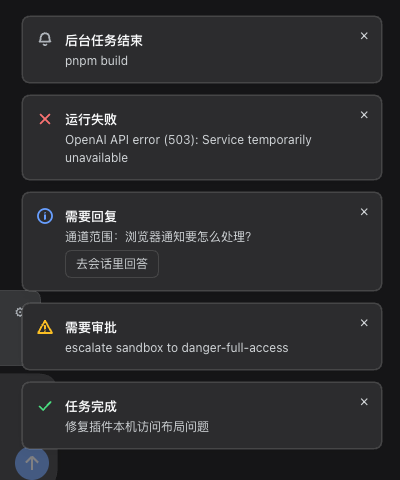
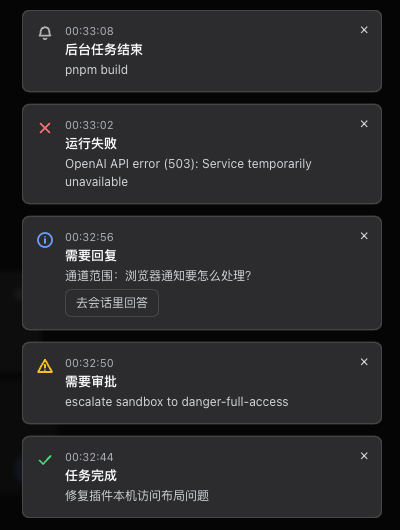
Stamp every card with the moment it arrived
Parallel tasks finish seconds apart, and a column of similar cards leaves
the user unable to tell which one was this. The host has always sent
`record.at` in every record; the client simply never showed it.

The clock leads the metadata row the session name already occupies, to
the second, so it costs the card no height: five cards still fit the same
window (518px / 822px measured unchanged). Fixed-width digits keep the
clocks in one column. A record that is not from today falls back to
`02-14 09:05`, and the full local timestamp always sits in the tooltip.

It leads rather than trails that row because the `+N` count is pinned to
the corner: right-aligned, the chip landed on the top card's clock and
covered its seconds. Found on the live page, not in the tests.

The self-test group is now spread over the previous half-minute, so a
burst shows eight distinct moments instead of eight identical ones.

diff --git a/src/client.js b/src/client.js
@@ -94,7 +94,8 @@ export const TOAST_CSS = `.dsh-notify-frame{position:fixed;z-index:1100}
 .dsh-notify-toast[data-tone=info] .dsh-notify-toast-icon{color:var(--dsw-alias-state-business-primary,#2563eb)}
 .dsh-notify-toast-body{display:grid;gap:2px;min-width:0;flex:1 1 auto}
 .dsh-notify-toast-head{align-items:center;display:flex;gap:6px;min-width:0}
-.dsh-notify-toast-source{color:var(--dsw-alias-label-tertiary,#7a8494);font-size:11px;line-height:1.4;min-width:0;overflow:hidden;text-overflow:ellipsis;white-space:nowrap}
+.dsh-notify-toast-source{color:var(--dsw-alias-label-tertiary,#7a8494);flex:1 1 auto;font-size:11px;line-height:1.4;min-width:0;overflow:hidden;text-overflow:ellipsis;white-space:nowrap}
+.dsh-notify-toast-time{color:var(--dsw-alias-label-tertiary,#7a8494);flex:none;font-size:11px;font-variant-numeric:tabular-nums;line-height:1.4;white-space:nowrap}
 .dsh-notify-toast-title{font-size:13px;font-weight:650;line-height:1.45}
 .dsh-notify-toast-text{color:var(--dsw-alias-label-secondary);font-size:12px;line-height:1.5;margin:0;overflow-wrap:anywhere}
 .dsh-notify-toast-answers{align-items:center;display:flex;flex-wrap:wrap;gap:6px;margin-top:2px}
@@ -148,12 +149,16 @@ export const SELF_TEST_BATCH = Object.freeze([
  * `count` exists so the settings buttons can fire a window-sized group and an overflowing one: the
  * difference between five cards lying flat and eight cards behind a `+3` count is the whole point of
  * looking at a group at all. Cards are distinct records — reusing one would merge into a single card.
+ *
+ * The group is spread over the last few seconds rather than all stamped at the same millisecond, so a
+ * self-test shows what a real burst looks like: eight cards, eight readable times, newest on top.
  */
+export const SELF_TEST_STEP_MS = 6_000;
 export function createLocalSelfTestBatch({ count = SELF_TEST_BATCH.length, now = Date.now(), randomUUID = () => globalThis.crypto?.randomUUID?.() || Math.random().toString(36).slice(2) } = {}) {
   const wanted = Math.max(1, Math.min(SELF_TEST_BATCH.length, Math.trunc(Number(count)) || SELF_TEST_BATCH.length));
   return SELF_TEST_BATCH.slice(0, wanted).map((entry, index) => {
     const id = `self-test:${randomUUID()}-${index}`;
-    return { ...entry, eventId: id, mergeKey: id, at: now + index, phase: 'settled', localOnly: true };
+    return { ...entry, eventId: id, mergeKey: id, at: now - (wanted - 1 - index) * SELF_TEST_STEP_MS, phase: 'settled', localOnly: true };
   });
 }
 export function publishLocalSelfTest(record, dispatch = (event) => globalThis.dispatchEvent(event)) {
@@ -420,6 +425,27 @@ export function queueCards(cards = [], max = TOAST_QUEUE_MAX) {
   return [...pending, ...finished].slice(0, Math.max(1, max));
 }
 /**
+ * When a card happened, in the smallest form that still answers "which one was this".
+ *
+ * A page only holds what arrived while it was open, so the usual case is today and the clock alone
+ * says it. Seconds are kept because parallel tasks finish seconds apart — that is exactly when the
+ * user is trying to tell two cards apart — and the full date is always in the tooltip for the rare
+ * card that arrives after the tab was asleep across midnight. Relative wording ("3 分钟前") is
+ * deliberately not used: it would need a timer redrawing the stack to stay true, and reconstructing
+ * *when* something happened is the whole point of the field.
+ */
+export function toastTime(at, now = Date.now()) {
+  const stamp = Number(at);
+  if (!Number.isFinite(stamp) || stamp <= 0) return null;
+  const date = new Date(stamp);
+  if (Number.isNaN(date.getTime())) return null;
+  const pad = (value) => String(value).padStart(2, '0');
+  const clock = `${pad(date.getHours())}:${pad(date.getMinutes())}:${pad(date.getSeconds())}`;
+  const today = new Date(Number.isFinite(Number(now)) ? Number(now) : Date.now());
+  const sameDay = date.getFullYear() === today.getFullYear() && date.getMonth() === today.getMonth() && date.getDate() === today.getDate();
+  return { label: sameDay ? clock : `${pad(date.getMonth() + 1)}-${pad(date.getDate())} ${clock.slice(0, 5)}`, title: `${date.getFullYear()}-${pad(date.getMonth() + 1)}-${pad(date.getDate())} ${clock}`, iso: date.toISOString() };
+}
+/**
  * Where each card sits. Every card keeps its own slot in one flat column — a new one takes the top and
  * pushes the rest down by exactly its own measured height — and the window below decides how much of
  * that column is on screen.
@@ -632,6 +658,7 @@ function ToastOverlay({ sessions, pendingInteractions } = {}) {
     const record = card.record; const status = card.status;
     const tone = status === 'error' ? 'error' : status === 'success' ? 'success' : toastTone(record.kind);
     const source = sessionLabel(sessions, record.sessionId);
+    const stamp = toastTime(record.at);
     // The slot is absolutely positioned and moved by its transform; that is what lets the cards below
     // a new one slide down instead of jumping.
     const slotStyle = { transform: `translateY(${plan.offsetY}px)` };
@@ -641,6 +668,11 @@ function ToastOverlay({ sessions, pendingInteractions } = {}) {
         toastIcon(tone, status),
         React.createElement('div', { className: 'dsh-notify-toast-body' },
           React.createElement('span', { className: 'dsh-notify-toast-head' },
+            // The time leads the metadata row the session name already occupies: no new line, no third
+            // column, and fixed-width digits line the clocks up down the stack. It must not take the
+            // right end of that row — the `+N` chip and the close button live there, and the chip is
+            // pinned to the corner rather than to a card, so anything right-aligned would slide under it.
+            stamp ? React.createElement('time', { className: 'dsh-notify-toast-time', dateTime: stamp.iso, title: stamp.title }, stamp.label) : null,
             source ? React.createElement('span', { className: 'dsh-notify-toast-source', title: record.sessionId }, source) : null),
           React.createElement('strong', { className: 'dsh-notify-toast-title' }, record.title),
           record.body ? React.createElement('p', { className: 'dsh-notify-toast-text' }, record.body) : null,

diff --git a/test/client-ui.test.js b/test/client-ui.test.js
@@ -1,5 +1,5 @@
 import test from 'node:test'; import assert from 'node:assert/strict';
-import { createAttentionIndicator, createSoundPlayer, installClientStyles, navigateNotificationRecord, queueCards, stackWindow, CLIENT_CSS, SETTINGS_CSS, layoutFor, revealTurn, statusTone, resultTone, toastAnchor, toastStackPlan, toastTone, toastIcon, pendingInteractionFor, toastAnswer, answerBatch, sessionLabel } from '../src/client.js';
+import { createAttentionIndicator, createLocalSelfTestBatch, createSoundPlayer, installClientStyles, navigateNotificationRecord, queueCards, SELF_TEST_STEP_MS, stackWindow, CLIENT_CSS, SETTINGS_CSS, layoutFor, revealTurn, statusTone, resultTone, toastAnchor, toastStackPlan, toastTime, toastTone, toastIcon, pendingInteractionFor, toastAnswer, answerBatch, sessionLabel } from '../src/client.js';
 test('narrow layout keeps the coarse-pointer hit target', () => { assert.deepEqual(layoutFor({ width: 375, coarse: true }), { narrow: true, hitTarget: 44 }); });
 test('settings status and self-test result tones drive the colour of one dot and one line', () => {
   assert.equal(statusTone('通知已连接'), 'ok'); assert.equal(statusTone('设置已保存'), 'ok'); assert.equal(statusTone('通知历史已清空'), 'ok');
@@ -209,3 +209,23 @@ test('the page-scoped queue keeps waiting work first and lets go of nothing unti
   assert.equal(capped[0].record.eventId, 'q1', 'the cap never takes the card that waits on the user');
 });
 
+test('each card is stamped with its own clock, and the full date rides in the tooltip', () => {
+  // Constructed and formatted in local time on purpose: the label never depends on the runner's zone.
+  const at = new Date(2026, 1, 14, 9, 5, 3).getTime();
+  assert.deepEqual(toastTime(at, new Date(2026, 1, 14, 23, 59, 0).getTime()),
+    { label: '09:05:03', title: '2026-02-14 09:05:03', iso: new Date(at).toISOString() },
+    'the same day is just the clock, to the second, because parallel tasks finish seconds apart');
+  // A tab that was asleep across midnight still gets a date instead of a lie about "today".
+  assert.equal(toastTime(at, new Date(2026, 1, 15, 0, 1, 0).getTime()).label, '02-14 09:05');
+  assert.equal(toastTime(at, new Date(2027, 1, 14, 9, 5, 3).getTime()).label, '02-14 09:05');
+  // And a record with no usable stamp is simply not stamped, rather than stamped with 1970.
+  for (const missing of [undefined, null, 0, -1, 'nonsense', NaN]) assert.equal(toastTime(missing), null, `${missing} has no time`);
+});
+test('a self-test group is spread over time so eight cards read as eight different moments', () => {
+  const batch = createLocalSelfTestBatch({ count: 8, now: 1_000_000, randomUUID: () => 'r' });
+  assert.equal(batch.length, 8);
+  assert.equal(batch.at(-1).at, 1_000_000, 'the newest card is now');
+  assert.equal(batch[0].at, 1_000_000 - 7 * SELF_TEST_STEP_MS, 'and the oldest is seven steps back');
+  assert.equal(new Set(batch.map((record) => record.at)).size, 8, 'every card keeps its own moment');
+  assert.deepEqual(batch.map((record) => record.eventId), batch.map((record) => record.mergeKey), 'distinct records, so they cannot merge into one card');
+});

diff --git a/test/client-dom.test.js b/test/client-dom.test.js
@@ -398,6 +398,8 @@ async function mountStackSandbox(t, { host = 'live' } = {}) {
     windowHeight: () => document.querySelector('.dsh-notify-frame')?.style.height,
     contentHeight: () => document.querySelector('.dsh-notify-stack-inner')?.style.height,
     badge: () => document.querySelector('.dsh-notify-count')?.textContent ?? null,
+    times: () => nodes().map((node) => node.querySelector('.dsh-notify-toast-time')?.textContent ?? null),
+    headParts: (index = 0) => [...nodes()[index].querySelectorAll('.dsh-notify-toast-head > *')],
     tabTitle: () => title.value,
   };
 }
@@ -604,3 +606,28 @@ test('nothing is dropped: every card keeps its slot, and the window scrolls to i
   assert.deepEqual(sandbox.transforms(), ['translateY(0px)', 'translateY(12px)', 'translateY(24px)', 'translateY(36px)', 'translateY(48px)', 'translateY(60px)']);
 });
 
+
+test('every card says when it happened, on the line the session name already used', async (t) => {
+  const sandbox = await mountStackSandbox(t);
+  // The card renders against the real clock, so "today at 09:05:03" is built from today's own date:
+  // the label under test is the clock form, and the date form has its own unit test.
+  const today = new Date(); const pad = (value) => String(value).padStart(2, '0');
+  const day = `${today.getFullYear()}-${pad(today.getMonth() + 1)}-${pad(today.getDate())}`;
+  const at = new Date(today.getFullYear(), today.getMonth(), today.getDate(), 9, 5, 3).getTime();
+  sandbox.push({ ...burstRecord(1), at });
+  await sandbox.tick();
+  const time = sandbox.nodes()[0].querySelector('.dsh-notify-toast-time');
+  assert.equal(time?.tagName, 'TIME', 'it is a real time element, not just styled text');
+  assert.equal(time.textContent, '09:05:03', 'the clock, to the second');
+  assert.equal(time.getAttribute('datetime'), new Date(at).toISOString(), 'machine-readable stamp');
+  assert.equal(time.getAttribute('title'), `${day} 09:05:03`, 'the full date is one hover away');
+  // The time shares the metadata row with the session name: adding it must not add a line to the card,
+  // which is what keeps five cards in the same window they fitted in before.
+  assert.deepEqual(sandbox.headParts(0).map((node) => node.className), ['dsh-notify-toast-time', 'dsh-notify-toast-source'], 'the clock leads, so the +N chip and the close button keep the right end of the row to themselves');
+  assert.equal(sandbox.nodes()[0].querySelectorAll('.dsh-notify-toast-body > *').length, 2, 'head and title — the clock added no row');
+  // A record without a usable stamp renders without one, instead of an empty element that shifts the row.
+  sandbox.push({ ...burstRecord(2), at: undefined });
+  await sandbox.tick();
+  assert.deepEqual(sandbox.times(), [null, '09:05:03'], 'the undated card simply has no clock');
+  assert.equal(sandbox.headParts(0).length, 1, 'and its row holds only the session name');
+});

diff --git a/README.md b/README.md
@@ -27,12 +27,12 @@ When a session **really stops**, fails, asks a question, or needs approval, a ca
 Everything happens **inside the page you already have open**. There is no service worker, no web push, no host-side OS notification, and no extra app to install: browser and operating-system notification matrices were removed on purpose, because they fail invisibly (submitted, never seen) and cannot be made reliable across platforms.
 
 <p align="center">
-  <img src="./assets/toast.png" width="70%" alt="Notification cards in the top-right corner: icon, title, body text and a close button">
+  <img src="./assets/toast.png" width="70%" alt="Notification cards in the top-right corner: arrival time, session name, title, body text and a close button">
 </p>
 
 ## What it does
 
-- **Toast on the page**: a stack in the top-right corner, newest on top. Each card carries the title, body, session name, a tone colour per kind and a close button. Click the body to jump to the session; click the answers to reply without leaving the page, and the card reports the answer as loading until the host confirms (then ✓ 已完成 or ✗ with a 重试 button). Nothing expires on a clock: a card stays until you close it, open its session, or answer it — and a card whose record the Host has dropped leaves with it.
+- **Toast on the page**: a stack in the top-right corner, newest on top. Each card carries the arrival time to the second (`00:33:08`, or `02-14 09:05` when it is not from today; the full date is in its tooltip), the session name, the title, the body, a tone colour per kind and a close button. Click the body to jump to the session; click the answers to reply without leaving the page, and the card reports the answer as loading until the host confirms (then ✓ 已完成 or ✗ with a 重试 button). Nothing expires on a clock: a card stays until you close it, open its session, or answer it — and a card whose record the Host has dropped leaves with it.
 - **A window onto the queue**: the corner is five cards tall and each new card pushes the older ones down with a smooth transform. Anything waiting on you is always among them; everything older sits below the fold, one scroll away, and the count on the corner says how many the page is holding (`+8`) — not just what is out of sight. Click the count to jump between the two ends of the queue. Nothing is thrown away while the page is open; a refresh clears it.
 - **Answer in the toast**: a pending question or approval renders the same options as the composer. Answering here and answering in the composer act on the same pending interaction, so the two stay in sync.
 - **Jump to the exact turn**: clicking a card opens its session and scrolls to (and briefly highlights) the turn the notification came from.

diff --git a/README.zh.md b/README.zh.md
@@ -27,12 +27,12 @@
 一切都发生在**你已经打开的这个页面里**。没有 Service Worker、没有 Web Push、不做宿主机系统通知、也不需要安装任何 App——浏览器与操作系统通知矩阵是被**故意删掉**的：它们失败时对用户不可见（提交成功却永远看不到横幅），且无法跨平台做可靠。
 
 <p align="center">
-  <img src="./assets/toast.png" width="70%" alt="右上角通知卡片：图标、标题、正文与关闭按钮">
+  <img src="./assets/toast.png" width="70%" alt="右上角通知卡片：到达时刻、会话名、标题、正文与关闭按钮">
 </p>
 
 ## 能做什么
 
-- **页内浮层**：右上角一叠卡片，新消息在最上方。每张卡有标题、正文、会话名、按类型着色的状态色和关闭按钮。点正文跳到该会话，点选项就地回答，回答期间卡片显示 loading，宿主确认后就地变成 ✓ 已完成或 ✗ 加「重试」。**没有任何东西按时间自动消失**：卡片会一直留着，直到你点 × 关闭、点正文跳会话、或在卡上回答成功；如果宿主那边这条记录已被清空/删除，卡片也会跟着退场。
+- **页内浮层**：右上角一叠卡片，新消息在最上方。每张卡的最前面是**到达时刻**（精确到秒，如 `00:33:08`；不是今天的会显示 `02-14 09:05`，完整日期在悬浮提示里），后面跟着会话名、标题、正文、按类型着色的状态色和关闭按钮。点正文跳到该会话，点选项就地回答，回答期间卡片显示 loading，宿主确认后就地变成 ✓ 已完成或 ✗ 加「重试」。**没有任何东西按时间自动消失**：卡片会一直留着，直到你点 × 关闭、点正文跳会话、或在卡上回答成功；如果宿主那边这条记录已被清空/删除，卡片也会跟着退场。
 - **一扇五张卡高的窗**：角上固定五张，新卡入场时把旧卡平滑往下推；**在等你的那张一定在其中**，更早的排在窗下面，在通知区里滚动就能看到（窗沿会露出下一张的边）。角上的计数是**本页全部**条数（8 条就是「+8」），不是藏起来的那些；点它可以在这条队列的两端之间跳转。页面开着期间一条都不丢，刷新即清空。
 - **在浮层里回答**：待回复的提问/审批会渲染与输入框一致的选项。在这里回答和在输入框里回答操作的是**同一个**待处理交互，两边实时同步。
 - **精确跳到那一轮**：点一张卡片会打开对应会话，并滚动到（短暂高亮）产生该通知的那一轮。

diff --git a/CHANGELOG.md b/CHANGELOG.md
@@ -9,6 +9,7 @@ Notifications are delivered live and nothing is stored: the stack in the top-rig
 ### Added
 
 - **A toast stack.** Up to five notifications live in the top-right corner, newest on top; each new one takes the first slot and pushes the older ones down, animated by a measured `transform` rather than a re-flow. Cards enter with a spring scale + fade and leave by sliding out to the right.
+- **Every card carries its own time.** The arrival time leads the card, to the second (`00:33:08`), because parallel tasks finish seconds apart and "which one was this" is exactly the question a stack of similar cards raises. It shares the metadata row the session name already used, so it costs the card no height and five cards still fit the same window; a record that is not from today falls back to `02-14 09:05`, and the full local date and time always sits in the tooltip. The clock leads rather than trails that row because the `+N` count is pinned to the corner and would otherwise sit on top of it; fixed-width digits keep the clocks in one column either way. The self-test group is spread over the previous half-minute so a burst shows distinct moments instead of eight identical ones.
 - **A window, not a pile.** The corner is exactly five cards tall. A sixth notification takes its place below them, where the window scrolls to it (the wheel, or the count button, which jumps between the two ends of the queue); a sliver of the next card under the window edge is what makes the rest look reachable. The count is the whole queue — eight notifications show `+8`, whether five of them are on screen or not — and it is pinned to the corner outside the scroll box, so it neither scrolls away nor means something different once you have scrolled.
 - **Action state on the card.** Answering a question or a plan review from a card reports itself: the icon spins while the answer is in flight, the buttons disable, and the card settles on a green check plus 已完成 (then retires on its own) or on a red error with the host message and a 重试 button.
 - The settings self-test can fire a window-sized group (**测试 5 条**) and an overflowing one (**测试 8 条**), so what happens past the window — the count, the scroll and the card that waits below the fold — can be looked at without waiting for eight real notifications.
